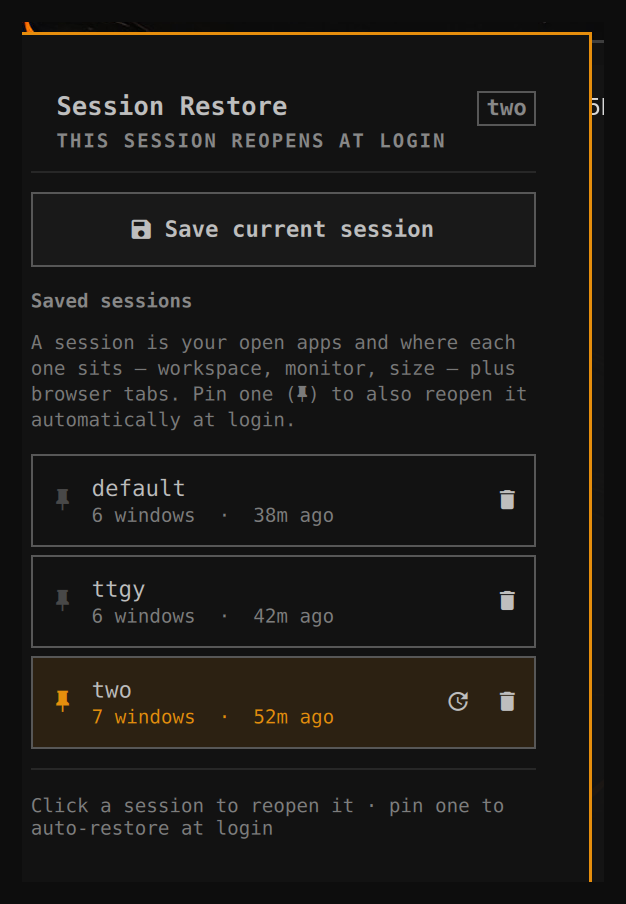
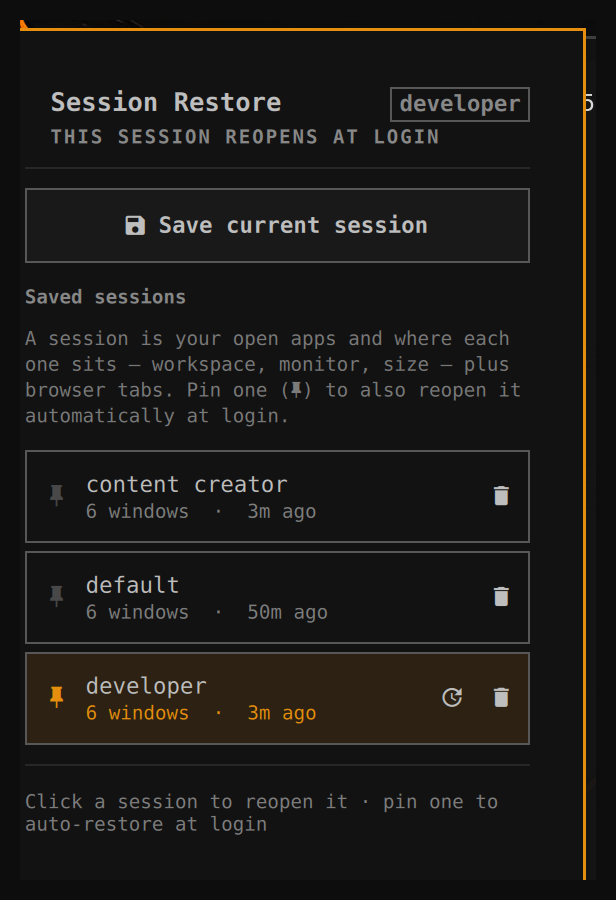
Marketplace prep: richer manifest metadata, sharper README scope, new preview
- manifest.json: full-paragraph `description` (what it captures, the login
  behaviour, the node/python3 requirements, and an explicit "does NOT restore
  the tiled split arrangement"), a fuller `barWidget.description`, and
  `barWidget.aliases` for search. The marketplace listing is built from these.
- README: a scannable "What it does" / "What it does not do" pair up top so a
  browser understands the scope before installing.
- preview.png: retaken with real session names, "developer" pinned.

For the marketplace submission issue: Category = System; Tags = Workspaces,
Hyprland, Quickshell; note the node + python3 deps and the tiled-layout limit.

82 tests, manifest passes `omarchy plugin validate`.

diff --git a/README.md b/README.md
@@ -11,16 +11,27 @@ back — on demand, or automatically after a reboot.
 
 ## What it does
 
-- **Save a session** — every open window's app, workspace, monitor, position,
-  size, floating/fullscreen state, working directory, and browser tabs.
+- **Save a session** — a named snapshot of every open window: app, workspace,
+  monitor, position, size, floating/fullscreen state, working directory, and
+  browser tabs.
 - **Restore on demand** — relaunches whatever is closed onto the right
-  workspace; moves already-open windows back into place instead of duplicating.
+  workspace; repositions windows that are already open instead of duplicating
+  them; chases slow apps (Electron) for ~15 s.
 - **Restore at login** — pin one session and it reopens a few seconds after you
-  log in. Once per login only — a mid-session `omarchy restart shell` won't
-  re-trigger it.
+  log in. Once per login only — a mid-session `omarchy restart shell` will not
+  re-trigger it, and neither will an already-armed session that was pinned
+  earlier in the same session.
 
-**Not restored:** the tiled arrangement *within* a workspace (which window is
-beside which, split ratios). See [Limitations](#limitations).
+## What it does **not** do
+
+- **Tiled layout within a workspace** — which window sits left/right/top/bottom
+  of which, and the split ratios. Tiled windows come back onto their workspace
+  and land wherever dwindle puts them. This is blocked on Hyprland, not just
+  unbuilt — see [Limitations](#limitations).
+- **Restore app *state*** — it relaunches apps, it does not reopen documents or
+  scroll positions (browser tabs are the exception).
+- **Run without `node`** — the restore engine is a Node script. `python3` is
+  also needed for browser-tab capture; everything else works without it.
 
 ## Install
 
